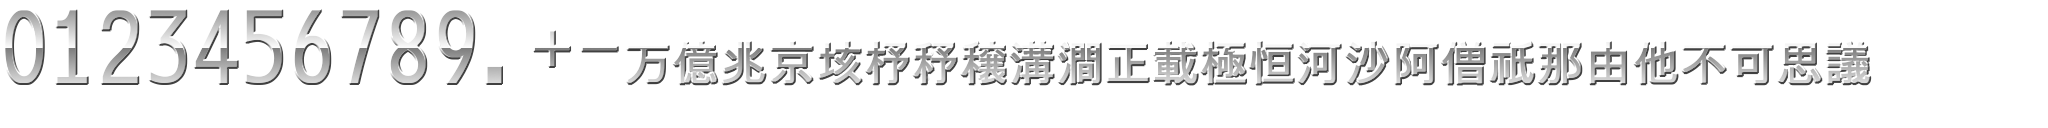
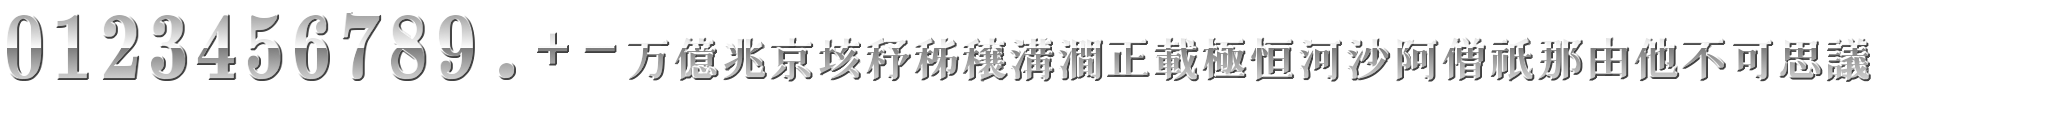
フォントデータを明朝体にしてみる

Changed region(s): [[0.0, 0.0625, 0.9375, 0.6875]]

diff --git a/doc/license.md b/doc/license.md
@@ -67,7 +67,9 @@ Wikimedia Commons ユーザーの Enceladus 氏により撮影され、MihailJP 
 
 フォントデータについて
 ----------------------
-　フォントデータは「梅ゴシック」を使用しています。
+　フォントデータは「梅明朝」「CMU Serif」および「GlyphWikiのデータ」を使用しています。
+
+### 梅フォントのライセンス ###
 
 > これらのフォントはフリー（自由な）ソフトウエアです。
 > あらゆる改変の有無に関わらず、また商業的な利用であっても、自由にご利用、
@@ -78,6 +80,56 @@ Wikimedia Commons ユーザーの Enceladus 氏により撮影され、MihailJP 
 > either commercially and noncommercially. THESE FONTS ARE PROVIDED "AS IS" WITHOUT WARRANTY.
 
 参照：[http://sourceforge.jp/projects/ume-font/wiki/FrontPage](http://sourceforge.jp/projects/ume-font/wiki/FrontPage)
+
+### Computer Modern Unicode フォントのライセンス ###
+
+> Andrey V. Panov (C) 2005
+>
+> All rights reserved.
+>
+> Permission is hereby granted, free of charge, to any person obtaining a copy
+> of this software and associated documentation files (the "Software"), to deal
+> in the Software without restriction, including without limitation the rights
+> to use, copy, modify, merge, publish, distribute, and/or sell copies of the
+> Software, and to permit persons to whom the Software is furnished to do so,
+> provided that the above copyright notice(s) and this permission notice appear
+> in all copies of the Software and that both the above copyright notice(s) and
+> this permission notice appear in supporting documentation.
+>
+> THE SOFTWARE IS PROVIDED "AS IS", WITHOUT WARRANTY OF ANY KIND, EXPRESS OR
+> IMPLIED, INCLUDING BUT NOT LIMITED TO THE WARRANTIES OF MERCHANTABILITY,
+> FITNESS FOR A PARTICULAR PURPOSE AND NONINFRINGEMENT OF THIRD PARTY RIGHTS.
+> IN NO EVENT SHALL THE COPYRIGHT HOLDER OR HOLDERS INCLUDED IN THIS NOTICE BE
+> LIABLE FOR ANY CLAIM, OR ANY SPECIAL INDIRECT OR CONSEQUENTIAL DAMAGES, OR
+> ANY DAMAGES WHATSOEVER RESULTING FROM LOSS OF USE, DATA OR PROFITS, WHETHER
+> IN AN ACTION OF CONTRACT, NEGLIGENCE OR OTHER TORTIOUS ACTION, ARISING OUT OF
+> OR IN CONNECTION WITH THE USE OR PERFORMANCE OF THIS SOFTWARE.
+>
+> Except as contained in this notice, the name of a copyright holder shall not
+> be used in advertising or otherwise to promote the sale, use or other
+> dealings in this Software without prior written authorization of the
+> copyright holder.
+>
+> As a special exception, if you create a document which uses these fonts, and
+> embed these fonts or unaltered portions of these fonts into the document,
+> these fonts does not by itself cause the resulting document to be covered by
+> the X11 License. This exception does not however invalidate any other reasons
+> why the document might be covered by the X11 License. If you modify these
+> fonts, you may extend this exception to your version of the fonts, but you
+> are not obligated to do so. If you do not wish to do so, delete this
+> exception statement from your version.
+
+参照：[http://cm-unicode.sourceforge.net/license.html](http://cm-unicode.sourceforge.net/license.html)
+
+### GlyphWiki データ及び記事のライセンス ###
+
+> グリフウィキに登録されているグリフデータおよび記事は、誰もが自由に利用できることとします。
+> あらゆる改変の有無に関わらず、また商業的な利用であっても、自由に利用、複製、再配布することができます。
+> 著作者表示も特に制限を設けません。新しいフォントのベースデータとして用いることや、
+> そのままコピーしたものをフォントとして著作物とすることを妨げません。
+> 記事中に引用されている部分については、グリフウィキには著作権はありませんので引用元のライセンスを確認してください。 
+
+参照：[http://glyphwiki.org/wiki/GlyphWiki:データ・記事のライセンス](http://glyphwiki.org/wiki/GlyphWiki:%E3%83%87%E3%83%BC%E3%82%BF%E3%83%BB%E8%A8%98%E4%BA%8B%E3%81%AE%E3%83%A9%E3%82%A4%E3%82%BB%E3%83%B3%E3%82%B9)
 
 
 使用した効果音のデータについて
